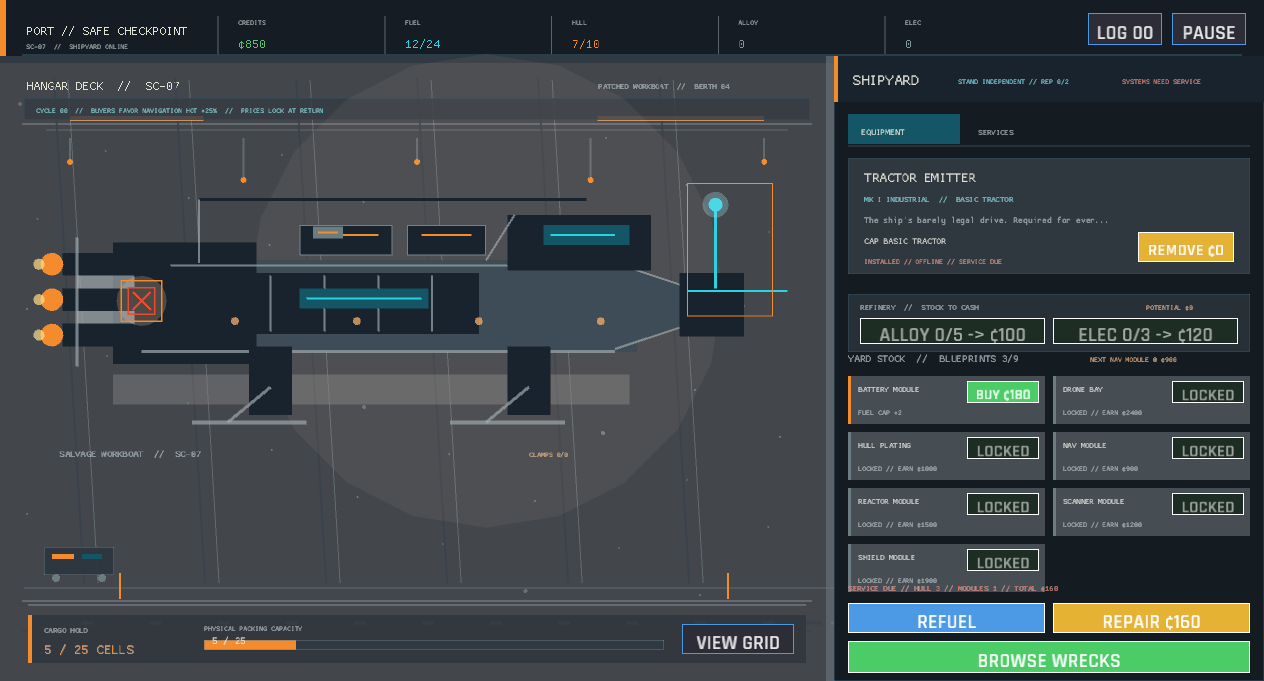
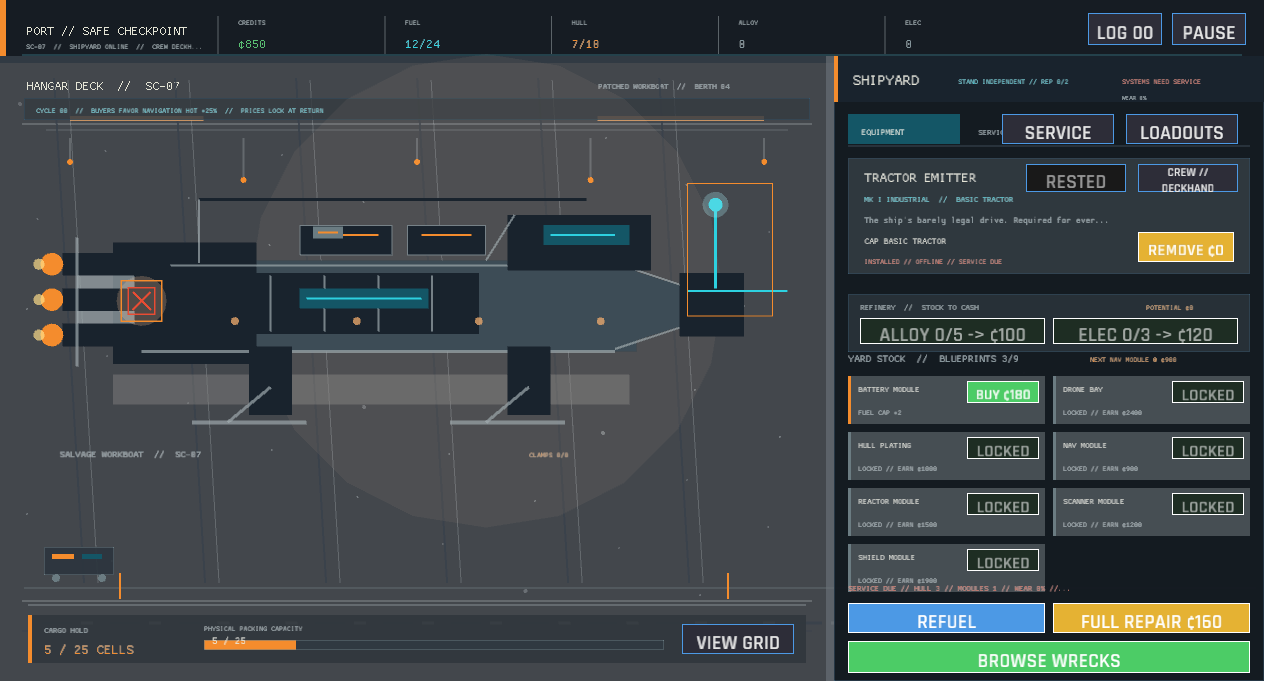
The old repair lever now admits it is the full overhaul (repair path clarity)
The legacy one-touch repair action remains intact but is now labeled FULL REPAIR beside the new SERVICE entry point. This makes the distinction between an all-in overhaul and selective plans visible in the port console, with updated UI coverage.

diff --git a/src/ui/port_panel/tests.rs b/src/ui/port_panel/tests.rs
@@ -29,8 +29,8 @@ fn market_ticker_uses_the_current_cycle_and_explains_the_price_lock() {
 
 #[test]
 fn maintenance_readout_breaks_repair_cost_into_hull_and_system_work() {
-    assert_eq!(repair_button_label(0), "REPAIR");
-    assert_eq!(repair_button_label(55), "REPAIR ¢55");
+    assert_eq!(repair_button_label(0), "FULL REPAIR");
+    assert_eq!(repair_button_label(55), "FULL REPAIR ¢55");
     assert_eq!(
         maintenance_status_label(2, 1, 0, 125, 850),
         "SERVICE DUE // HULL 2 // MODULES 1 // WEAR 0% // TOTAL ¢125"

diff --git a/src/ui/port_panel/maintenance.rs b/src/ui/port_panel/maintenance.rs
@@ -5,9 +5,9 @@ use macroquad::prelude::*;
 
 pub(crate) fn repair_button_label(total_cost: i64) -> String {
     if total_cost > 0 {
-        format!("REPAIR ¢{total_cost}")
+        format!("FULL REPAIR ¢{total_cost}")
     } else {
-        "REPAIR".to_owned()
+        "FULL REPAIR".to_owned()
     }
 }
 
